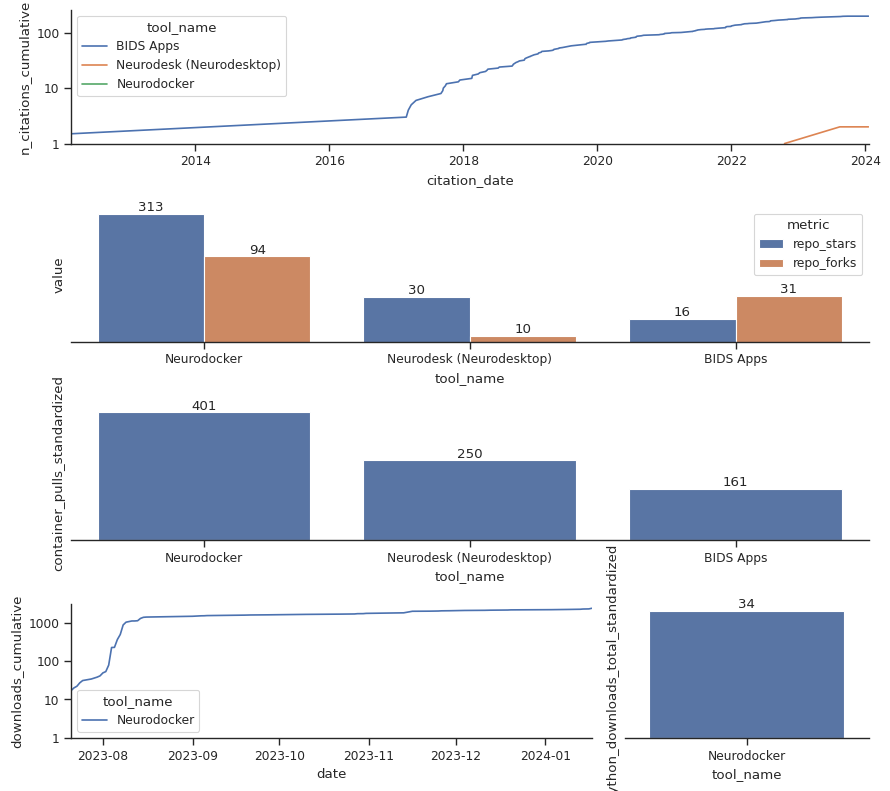
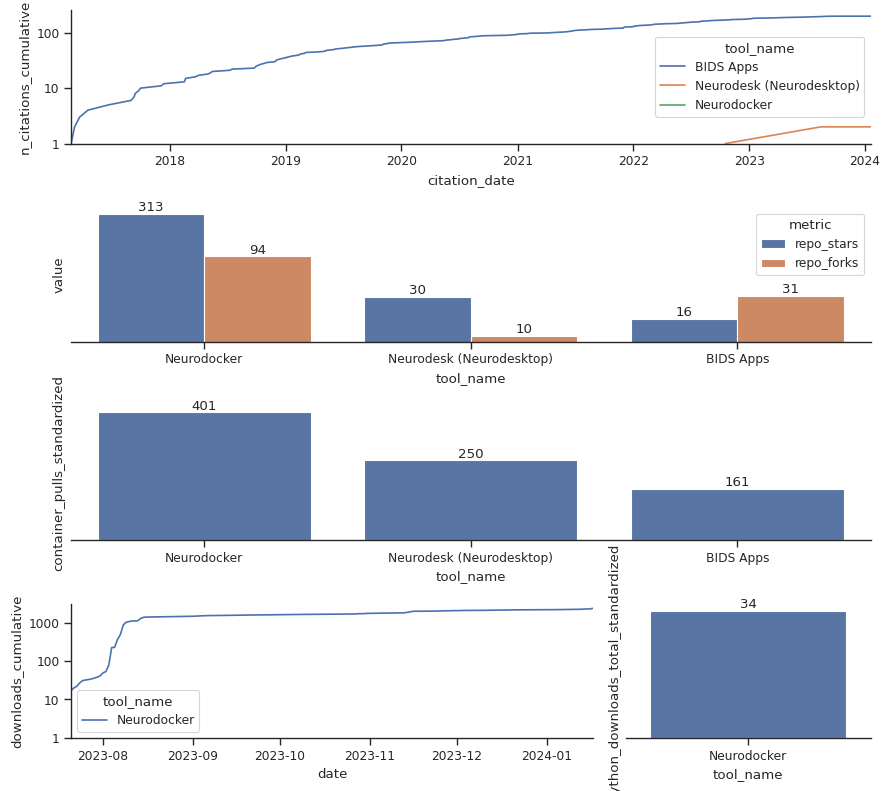
fix citations with impossible dates

diff --git a/code/generate_figures.py b/code/generate_figures.py
@@ -24,6 +24,14 @@ from utils import (
 from metrics import compute_metrics
 from plotting import plot_timeseries, plot_bar
 
+CITATION_DATE_FIXES = {
+    # BIDS Apps
+    '10.1371/journal.pcbi.1005209': {
+        '10.1007/978-1-0716-3195-9_21': '2023-07-23', # originally 2012-02-24
+        '10.1007/978-1-0716-3195-9_8': '2023-07-23',  # originally 2012-02-24
+    }
+}
+
 def plot_citations(df_metrics: pd.DataFrame, ax=None) -> plt.Axes:
 
     # temporary helper columns
@@ -40,10 +48,15 @@ def plot_citations(df_metrics: pd.DataFrame, ax=None) -> plt.Axes:
 
         # citations is a list of dicts, one for each citation
         for citation in citations:
+            try:
+                # fix wrong citation dates if needed
+                citation_date = CITATION_DATE_FIXES[citation['cited']][citation['citing']]
+            except KeyError:
+                citation_date = citation['creation']
             data_for_df_citations.append({
                 COL_NAME: tool,
                 col_n_citations: 1,
-                col_citation_date: pd.to_datetime(citation['creation']),
+                col_citation_date: pd.to_datetime(citation_date),
             })
 
         # add one last entry for the current date
